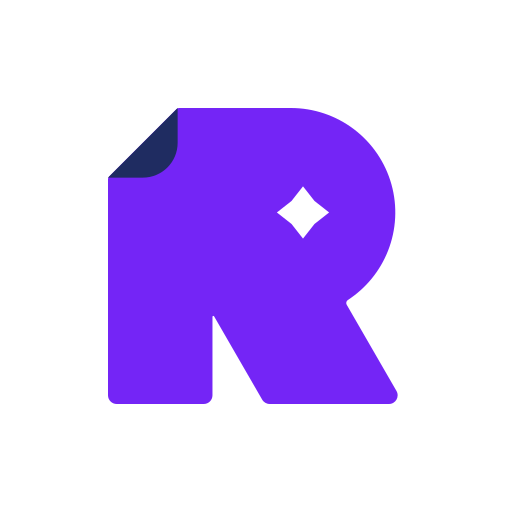
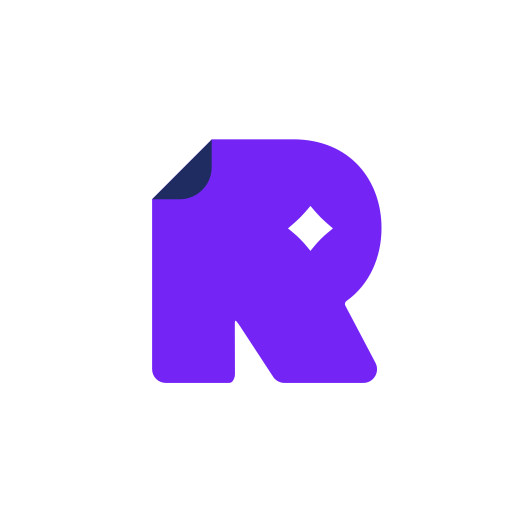
앱 아이콘 · 탭 아이콘을 Figma 로고(1364:928)로 교체
Claude-Session: https://claude.ai/code/session_01QczkyV9nBJyKFDfq5nNRMq

Changed region(s): [[0.1875, 0.1875, 0.7812, 0.8125], [0.5312, 0.375, 0.6562, 0.5], [0.6562, 0.5938, 0.6875, 0.625]]

diff --git a/reffy-mobile/static/index.html b/reffy-mobile/static/index.html
@@ -9,13 +9,13 @@
 <meta name="apple-mobile-web-app-capable" content="yes">
 <meta name="apple-mobile-web-app-title" content="REFFY">
 <meta name="apple-mobile-web-app-status-bar-style" content="default">
-<link rel="apple-touch-icon" href="assets/app-192.png">
+<link rel="apple-touch-icon" href="assets/app-192.png?v=2">
 <title>REFFY · 레퍼런스 검색</title>
 <link rel="stylesheet" href="https://cdn.jsdelivr.net/gh/orioncactus/pretendard@v1.3.9/dist/web/static/pretendard.min.css">
-<link rel="icon" type="image/svg+xml" href="assets/reffy-symbol.svg">
-<link rel="stylesheet" href="app.css?v=20261122m">
-<link rel="stylesheet" href="mobile.css?v=20261122m" media="(max-width:767px)">
-<link rel="stylesheet" href="mfig.css?v=20261122m">
+<link rel="icon" type="image/svg+xml" href="assets/reffy-app.svg">
+<link rel="stylesheet" href="app.css?v=20261122n">
+<link rel="stylesheet" href="mobile.css?v=20261122n" media="(max-width:767px)">
+<link rel="stylesheet" href="mfig.css?v=20261122n">
 </head>
 <body>
 <header class="top">
@@ -79,11 +79,11 @@
   <a data-r="me" href="#/me"><i data-ic="user" data-s="24"></i><span>마이페이지</span></a>
 </nav>
 <div class="toast" id="toast" role="status" aria-live="polite"></div>
-<script src="icons.js?v=20261122m"></script>
-<script src="config.js?v=20261122m"></script>
-<script src="app.js?v=20261122m"></script>
-<script src="mobile.js?v=20261122m"></script>
-<script src="pages.js?v=20261122m"></script>
-<script src="i18n.js?v=20261122m"></script>
+<script src="icons.js?v=20261122n"></script>
+<script src="config.js?v=20261122n"></script>
+<script src="app.js?v=20261122n"></script>
+<script src="mobile.js?v=20261122n"></script>
+<script src="pages.js?v=20261122n"></script>
+<script src="i18n.js?v=20261122n"></script>
 </body>
 </html>

diff --git a/reffy-web/static/index.html b/reffy-web/static/index.html
@@ -9,13 +9,13 @@
 <meta name="apple-mobile-web-app-capable" content="yes">
 <meta name="apple-mobile-web-app-title" content="REFFY">
 <meta name="apple-mobile-web-app-status-bar-style" content="default">
-<link rel="apple-touch-icon" href="assets/app-192.png">
+<link rel="apple-touch-icon" href="assets/app-192.png?v=2">
 <title>REFFY · 레퍼런스 검색</title>
 <link rel="stylesheet" href="https://cdn.jsdelivr.net/gh/orioncactus/pretendard@v1.3.9/dist/web/static/pretendard.min.css">
-<link rel="icon" type="image/svg+xml" href="assets/reffy-symbol.svg">
-<link rel="stylesheet" href="app.css?v=20261122m">
-<link rel="stylesheet" href="mobile.css?v=20261122m" media="(max-width:767px)">
-<link rel="stylesheet" href="mfig.css?v=20261122m">
+<link rel="icon" type="image/svg+xml" href="assets/reffy-app.svg">
+<link rel="stylesheet" href="app.css?v=20261122n">
+<link rel="stylesheet" href="mobile.css?v=20261122n" media="(max-width:767px)">
+<link rel="stylesheet" href="mfig.css?v=20261122n">
 </head>
 <body>
 <header class="top">
@@ -79,11 +79,11 @@
   <a data-r="me" href="#/me"><i data-ic="user" data-s="24"></i><span>마이페이지</span></a>
 </nav>
 <div class="toast" id="toast" role="status" aria-live="polite"></div>
-<script src="icons.js?v=20261122m"></script>
-<script src="config.js?v=20261122m"></script>
-<script src="app.js?v=20261122m"></script>
-<script src="mobile.js?v=20261122m"></script>
-<script src="pages.js?v=20261122m"></script>
-<script src="i18n.js?v=20261122m"></script>
+<script src="icons.js?v=20261122n"></script>
+<script src="config.js?v=20261122n"></script>
+<script src="app.js?v=20261122n"></script>
+<script src="mobile.js?v=20261122n"></script>
+<script src="pages.js?v=20261122n"></script>
+<script src="i18n.js?v=20261122n"></script>
 </body>
 </html>
